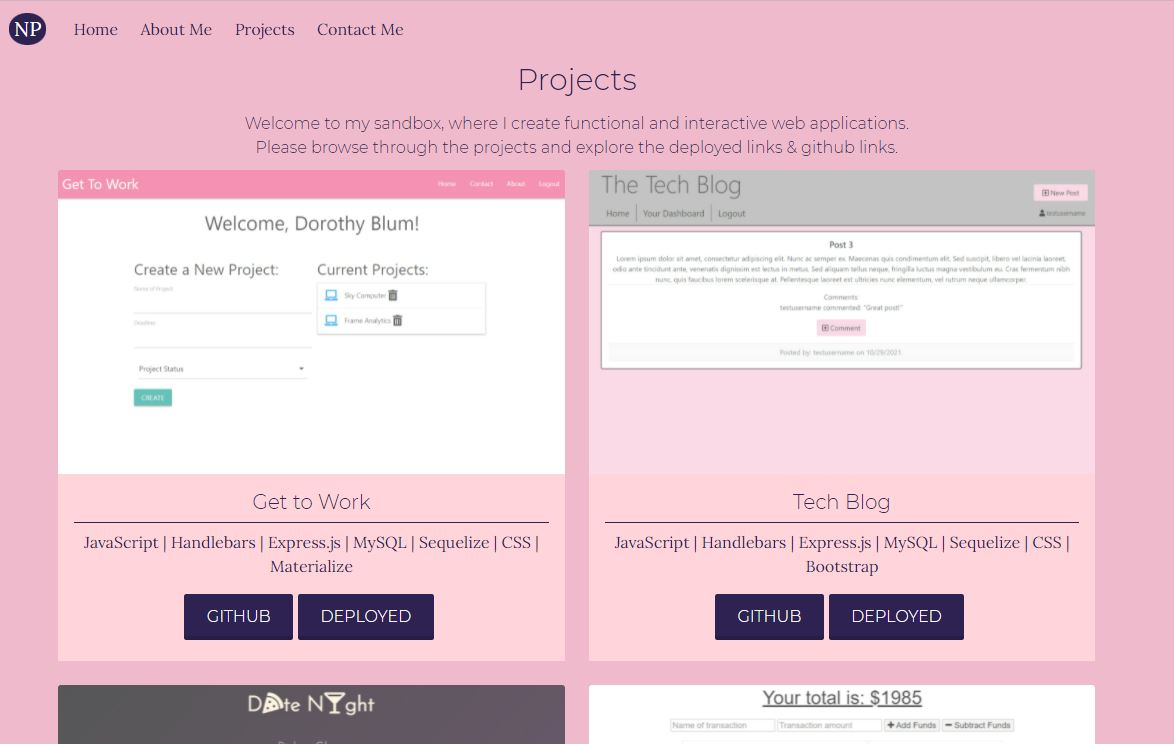
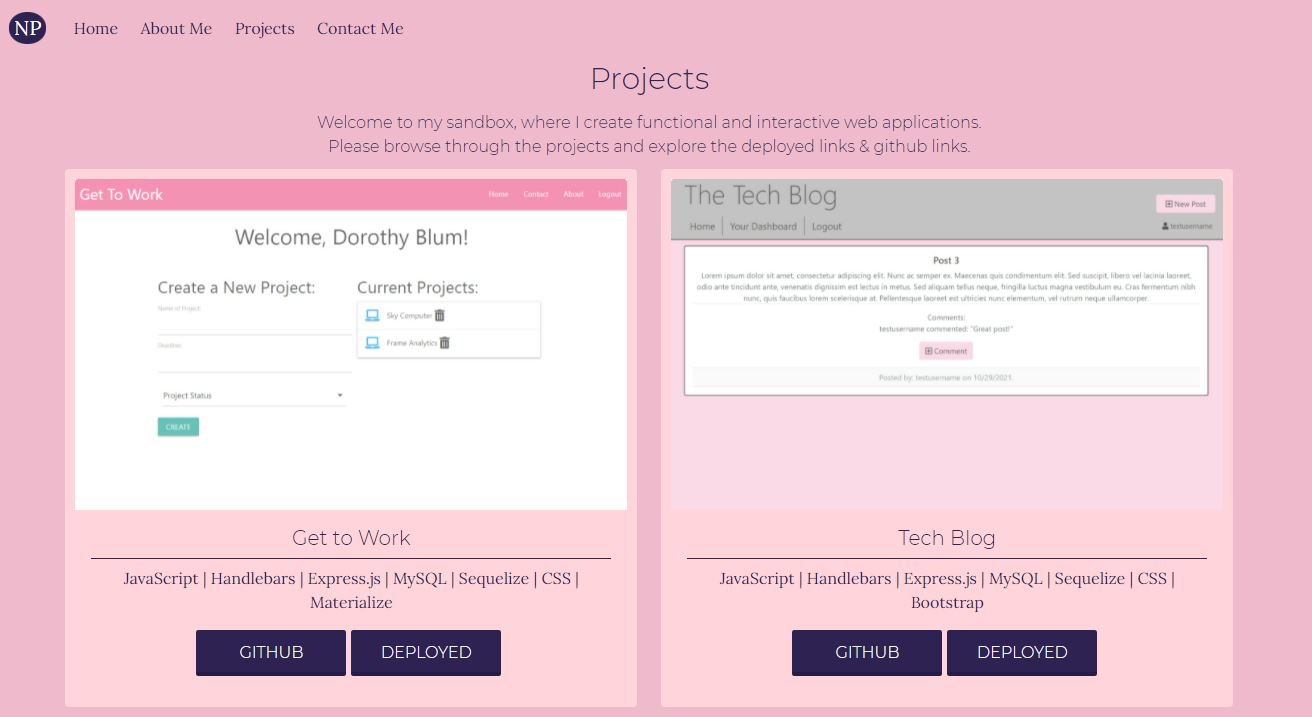
Updates

Changed region(s): [[0.0307, 0.1534, 0.9506, 1.0], [0.0, 0.0, 0.3373, 0.0614], [0.4293, 0.0921, 0.552, 0.1227]]

diff --git a/index.html b/index.html
@@ -1,1 +1,1 @@
-<!doctype html><html lang="en"><head><meta charset="utf-8"/><link rel="icon" href="/portfolio/favicon.ico"/><meta name="viewport" content="width=device-width,initial-scale=1"/><meta name="theme-color" content="#000000"/><meta name="description" content="Web site created using create-react-app"/><link rel="apple-touch-icon" href="/portfolio/logo192.png"/><link rel="preconnect" href="https://fonts.googleapis.com"><link rel="preconnect" href="https://fonts.gstatic.com" crossorigin><link href="https://fonts.googleapis.com/css2?family=Abril+Fatface&family=Lora&family=Montserrat:wght@300;900&family=Roboto:wght@100;400&display=swap" rel="stylesheet"><link rel="manifest" href="/portfolio/manifest.json"/><link rel="stylesheet" href="https://cdn.jsdelivr.net/npm/bootstrap@5.1.3/dist/css/bootstrap.min.css" integrity="sha384-1BmE4kWBq78iYhFldvKuhfTAU6auU8tT94WrHftjDbrCEXSU1oBoqyl2QvZ6jIW3" crossorigin="anonymous"/><link rel="stylesheet" href="https://use.fontawesome.com/releases/v5.15.4/css/all.css" integrity="sha384-DyZ88mC6Up2uqS4h/KRgHuoeGwBcD4Ng9SiP4dIRy0EXTlnuz47vAwmeGwVChigm" crossorigin="anonymous"><title>Nicole Pingar</title><link href="/portfolio/static/css/2.383c0125.chunk.css" rel="stylesheet"><link href="/portfolio/static/css/main.b5559e05.chunk.css" rel="stylesheet"></head><body><noscript>You need to enable JavaScript to run this app.</noscript><div id="root"></div><script>!function(e){function r(r){for(var n,i,a=r[0],c=r[1],l=r[2],p=0,s=[];p<a.length;p++)i=a[p],Object.prototype.hasOwnProperty.call(o,i)&&o[i]&&s.push(o[i][0]),o[i]=0;for(n in c)Object.prototype.hasOwnProperty.call(c,n)&&(e[n]=c[n]);for(f&&f(r);s.length;)s.shift()();return u.push.apply(u,l||[]),t()}function t(){for(var e,r=0;r<u.length;r++){for(var t=u[r],n=!0,a=1;a<t.length;a++){var c=t[a];0!==o[c]&&(n=!1)}n&&(u.splice(r--,1),e=i(i.s=t[0]))}return e}var n={},o={1:0},u=[];function i(r){if(n[r])return n[r].exports;var t=n[r]={i:r,l:!1,exports:{}};return e[r].call(t.exports,t,t.exports,i),t.l=!0,t.exports}i.e=function(e){var r=[],t=o[e];if(0!==t)if(t)r.push(t[2]);else{var n=new Promise((function(r,n){t=o[e]=[r,n]}));r.push(t[2]=n);var u,a=document.createElement("script");a.charset="utf-8",a.timeout=120,i.nc&&a.setAttribute("nonce",i.nc),a.src=function(e){return i.p+"static/js/"+({}[e]||e)+"."+{3:"84618ce6"}[e]+".chunk.js"}(e);var c=new Error;u=function(r){a.onerror=a.onload=null,clearTimeout(l);var t=o[e];if(0!==t){if(t){var n=r&&("load"===r.type?"missing":r.type),u=r&&r.target&&r.target.src;c.message="Loading chunk "+e+" failed.\n("+n+": "+u+")",c.name="ChunkLoadError",c.type=n,c.request=u,t[1](c)}o[e]=void 0}};var l=setTimeout((function(){u({type:"timeout",target:a})}),12e4);a.onerror=a.onload=u,document.head.appendChild(a)}return Promise.all(r)},i.m=e,i.c=n,i.d=function(e,r,t){i.o(e,r)||Object.defineProperty(e,r,{enumerable:!0,get:t})},i.r=function(e){"undefined"!=typeof Symbol&&Symbol.toStringTag&&Object.defineProperty(e,Symbol.toStringTag,{value:"Module"}),Object.defineProperty(e,"__esModule",{value:!0})},i.t=function(e,r){if(1&r&&(e=i(e)),8&r)return e;if(4&r&&"object"==typeof e&&e&&e.__esModule)return e;var t=Object.create(null);if(i.r(t),Object.defineProperty(t,"default",{enumerable:!0,value:e}),2&r&&"string"!=typeof e)for(var n in e)i.d(t,n,function(r){return e[r]}.bind(null,n));return t},i.n=function(e){var r=e&&e.__esModule?function(){return e.default}:function(){return e};return i.d(r,"a",r),r},i.o=function(e,r){return Object.prototype.hasOwnProperty.call(e,r)},i.p="/portfolio/",i.oe=function(e){throw console.error(e),e};var a=this.webpackJsonpportfolio=this.webpackJsonpportfolio||[],c=a.push.bind(a);a.push=r,a=a.slice();for(var l=0;l<a.length;l++)r(a[l]);var f=c;t()}([])</script><script src="/portfolio/static/js/2.8c03e210.chunk.js"></script><script src="/portfolio/static/js/main.e8d306e3.chunk.js"></script></body></html>
+<!doctype html><html lang="en"><head><meta charset="utf-8"/><link rel="icon" href="/portfolio/favicon.ico"/><meta name="viewport" content="width=device-width,initial-scale=1"/><meta name="theme-color" content="#000000"/><meta name="description" content="Web site created using create-react-app"/><link rel="apple-touch-icon" href="/portfolio/logo192.png"/><link rel="preconnect" href="https://fonts.googleapis.com"><link rel="preconnect" href="https://fonts.gstatic.com" crossorigin><link href="https://fonts.googleapis.com/css2?family=Abril+Fatface&family=Lora&family=Montserrat:wght@300;900&family=Roboto:wght@100;400&display=swap" rel="stylesheet"><link rel="manifest" href="/portfolio/manifest.json"/><link rel="stylesheet" href="https://cdn.jsdelivr.net/npm/bootstrap@5.1.3/dist/css/bootstrap.min.css" integrity="sha384-1BmE4kWBq78iYhFldvKuhfTAU6auU8tT94WrHftjDbrCEXSU1oBoqyl2QvZ6jIW3" crossorigin="anonymous"/><link rel="stylesheet" href="https://use.fontawesome.com/releases/v5.15.4/css/all.css" integrity="sha384-DyZ88mC6Up2uqS4h/KRgHuoeGwBcD4Ng9SiP4dIRy0EXTlnuz47vAwmeGwVChigm" crossorigin="anonymous"><title>Nicole Pingar</title><link href="/portfolio/static/css/2.383c0125.chunk.css" rel="stylesheet"><link href="/portfolio/static/css/main.57f0799d.chunk.css" rel="stylesheet"></head><body><noscript>You need to enable JavaScript to run this app.</noscript><div id="root"></div><script>!function(e){function r(r){for(var n,i,a=r[0],c=r[1],l=r[2],p=0,s=[];p<a.length;p++)i=a[p],Object.prototype.hasOwnProperty.call(o,i)&&o[i]&&s.push(o[i][0]),o[i]=0;for(n in c)Object.prototype.hasOwnProperty.call(c,n)&&(e[n]=c[n]);for(f&&f(r);s.length;)s.shift()();return u.push.apply(u,l||[]),t()}function t(){for(var e,r=0;r<u.length;r++){for(var t=u[r],n=!0,a=1;a<t.length;a++){var c=t[a];0!==o[c]&&(n=!1)}n&&(u.splice(r--,1),e=i(i.s=t[0]))}return e}var n={},o={1:0},u=[];function i(r){if(n[r])return n[r].exports;var t=n[r]={i:r,l:!1,exports:{}};return e[r].call(t.exports,t,t.exports,i),t.l=!0,t.exports}i.e=function(e){var r=[],t=o[e];if(0!==t)if(t)r.push(t[2]);else{var n=new Promise((function(r,n){t=o[e]=[r,n]}));r.push(t[2]=n);var u,a=document.createElement("script");a.charset="utf-8",a.timeout=120,i.nc&&a.setAttribute("nonce",i.nc),a.src=function(e){return i.p+"static/js/"+({}[e]||e)+"."+{3:"84618ce6"}[e]+".chunk.js"}(e);var c=new Error;u=function(r){a.onerror=a.onload=null,clearTimeout(l);var t=o[e];if(0!==t){if(t){var n=r&&("load"===r.type?"missing":r.type),u=r&&r.target&&r.target.src;c.message="Loading chunk "+e+" failed.\n("+n+": "+u+")",c.name="ChunkLoadError",c.type=n,c.request=u,t[1](c)}o[e]=void 0}};var l=setTimeout((function(){u({type:"timeout",target:a})}),12e4);a.onerror=a.onload=u,document.head.appendChild(a)}return Promise.all(r)},i.m=e,i.c=n,i.d=function(e,r,t){i.o(e,r)||Object.defineProperty(e,r,{enumerable:!0,get:t})},i.r=function(e){"undefined"!=typeof Symbol&&Symbol.toStringTag&&Object.defineProperty(e,Symbol.toStringTag,{value:"Module"}),Object.defineProperty(e,"__esModule",{value:!0})},i.t=function(e,r){if(1&r&&(e=i(e)),8&r)return e;if(4&r&&"object"==typeof e&&e&&e.__esModule)return e;var t=Object.create(null);if(i.r(t),Object.defineProperty(t,"default",{enumerable:!0,value:e}),2&r&&"string"!=typeof e)for(var n in e)i.d(t,n,function(r){return e[r]}.bind(null,n));return t},i.n=function(e){var r=e&&e.__esModule?function(){return e.default}:function(){return e};return i.d(r,"a",r),r},i.o=function(e,r){return Object.prototype.hasOwnProperty.call(e,r)},i.p="/portfolio/",i.oe=function(e){throw console.error(e),e};var a=this.webpackJsonpportfolio=this.webpackJsonpportfolio||[],c=a.push.bind(a);a.push=r,a=a.slice();for(var l=0;l<a.length;l++)r(a[l]);var f=c;t()}([])</script><script src="/portfolio/static/js/2.8c03e210.chunk.js"></script><script src="/portfolio/static/js/main.e8d306e3.chunk.js"></script></body></html>

diff --git a/static/css/main.57f0799d.chunk.css b/static/css/main.57f0799d.chunk.css
@@ -1,0 +1,2 @@
+body{margin:0;font-family:-apple-system,BlinkMacSystemFont,"Segoe UI","Roboto","Oxygen","Ubuntu","Cantarell","Fira Sans","Droid Sans","Helvetica Neue",sans-serif;-webkit-font-smoothing:antialiased;-moz-osx-font-smoothing:grayscale}code{font-family:source-code-pro,Menlo,Monaco,Consolas,"Courier New",monospace}*{background-color:#efbbcc;background-color:var(--pink);z-index:auto}#root{position:relative;min-height:100vh}.positioning{padding-bottom:2.5rem}.landing{font-family:"Montserrat",sans-serif;text-align:center;margin-top:125px}.landing,.navbar .navbar-nav .nav-link:hover{color:#2e2252;color:var(--blue)}@media only screen and (min-width:650px){.navbar .navbar-nav .nav-link{padding:1em .7em}.navbar{padding:0}.navbar .navbar-brand{padding:0 .7em}}.navbar .navbar-nav .nav-link{position:relative}.navbar .navbar-nav .nav-link:after{position:absolute;bottom:0;left:0;right:0;margin:auto;background-color:#2e2252;background-color:var(--blue);color:transparent;width:0;content:"";height:1.5px;transition:all .5s}.navbar .navbar-nav .nav-link:hover:after{width:100%}.navbar-light .navbar-nav .nav-link{color:#2e2252;color:var(--blue);font-family:"Lora",serif}.navbar-light .navbar-brand,.np{color:#fff}.np{font-family:"Lora",serif;background-color:#2e2252;background-color:var(--blue);border-radius:100%}.navbar .navbar-brand{padding:1px 5px}.navbar-light .navbar-brand:focus,.navbar-light .navbar-brand:hover{color:#fff}.navbar-margin{margin-left:10px}.navbar-light .navbar-toggler{border:none}.navbar-light .navbar-nav .nav-link:focus,.navbar-light .navbar-nav .nav-link:hover,.navbar-light .navbar-toggler{color:#2e2252;color:var(--blue)}.container-center{text-align:center;display:flex;justify-content:center}form{display:inline;width:60%;text-align:center;font-family:"Lora",serif;color:#2e2252;color:var(--blue);padding-top:20px}button.button6{display:inline-block;padding:.7em 1.4em;margin:0 .3em .3em 0;border-radius:.15em;box-sizing:border-box;text-decoration:none;font-family:"Montserrat",sans-serif;text-transform:uppercase;font-weight:400;color:#fff;background-color:#2e2252;background-color:var(--blue);box-shadow:inset 0 -.6em 0 -.35em rgba(0,0,0,.17);text-align:center;position:relative}button.button6:active{top:.1em}.about-container{text-align:center;color:#2e2252;color:var(--blue)}.about-title{font-size:30px;font-family:"Montserrat",sans-serif}.about-para{padding-bottom:35px}.nicole-pic{width:30%;height:auto;border-radius:50%;border:10px solid #ffd5db;border:10px solid var(--PinkL);margin:12px 0}@media screen and (max-width:768px){.nicole-pic{width:75%;height:auto}.about-container{padding-bottom:10px}}.about-para{font-family:"Lora",serif;margin:0 10%}.projects-div{padding-bottom:43.2px}.project-header{font-size:30px}.project-header,.project-sub{font-family:"Montserrat",sans-serif;color:#2e2252;color:var(--blue);padding-bottom:10px}.project-sub{text-align:center}@media screen and (max-width:768px){.nicole-pic{width:75%;height:auto}.about-container{padding-bottom:10px}form{width:95%;padding-top:20px}}:root{--PinkL:#ffd5db}.card-title{font-family:"Montserrat",sans-serif}.card-text,.card-title{color:#2e2252;color:var(--blue);background-color:#ffd5db;background-color:var(--PinkL)}.card-text{font-family:"Lora",serif;border-top:1px solid #2e2252;border-top:1px solid var(--blue);padding-top:7px}.card-body{background-color:#ffd5db;background-color:var(--PinkL)}.card{border:10px solid #ffd5db;border:10px solid var(--PinkL)}.row{text-align:center}.card-img-top{filter:opacity(70%)}.col{text-align:center}@media (min-width:768px){.row-cols-md-2>*{flex:0 0 auto;width:45%;justify-content:center}}.projects-div{width:98%;text-align:center;justify-content:center}a.button6{display:inline-block;padding:.7em 1.4em;margin:0 .3em .3em 0;border-radius:.15em;box-sizing:border-box;text-decoration:none;font-family:"Montserrat",sans-serif;text-transform:uppercase;font-weight:400;color:#fff;background-color:#2e2252;background-color:var(--blue);box-shadow:inset 0 -.6em 0 -.35em rgba(0,0,0,.17);text-align:center;position:relative;width:150px}a.button6:active{top:.1em}@media (max-width:30em){a.button6{display:block;margin:.4em auto}}:root{--pink:#efbbcc;--blue:#2e2252}.footer{display:block;position:absolute;bottom:0;text-align:center;left:6%;height:2.5rem}.padding-i{padding:0 20px}.padding-i,a{color:#2e2252;color:var(--blue)}a{text-decoration:none}.fa-phone:hover,a:hover{color:#fff}i{font-size:25px}.popover-header{color:#2e2252;color:var(--blue)}
+/*# sourceMappingURL=main.57f0799d.chunk.css.map */
